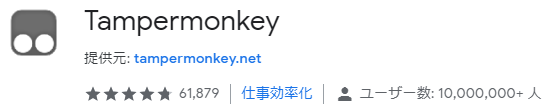
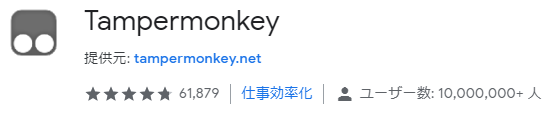
style: レイアウト調整

diff --git a/2019-03-29-browser-extension/slide.html b/2019-03-29-browser-extension/slide.html
@@ -14,6 +14,18 @@
         font-weight: normal;
       }
       .remark-code, .remark-inline-code { font-family: 'Ubuntu Mono'; }
+
+      img {
+        border: 2px solid gray;
+      }
+      .remark-inline-code {
+        background-color: rgb(220, 220, 220);
+        padding: 5px;
+      }
+      .image-2-container img {
+        width: 48%;
+        vertical-align: top;
+      }
     </style>
   </head>
   <body>
@@ -32,6 +44,8 @@ class: center, middle
 # ブラウザ拡張とは
 - ウェブブラウザの機能を拡張する
 - JavaScript, JSON, HTML, CSSなどフロントエンド技術で作成できる
+
+--
 
 ## 詳細
 - 対象ブラウザ
@@ -159,7 +173,7 @@ class: center, middle
 
 ---
 
-# 悪意あるブラウザ拡張への対策
+# 悪意ある<br>ブラウザ拡張への対策
 - 要求権限の少ない拡張を選択
 - ブラウザ側で権限を制限
 - 自作
@@ -192,8 +206,10 @@ class: center, middle
 - 現在表示しているサイトを許可
 - すべてのサイトで許可
 
-![](./uploads/upload_d4c3ee39c2df7621c1f040bd6a1087a4.png)
-![](./uploads/upload_6d7308ea8eaaadcb3260bd7650ac8c3e.png)
+.image-2-container[
+    ![](./uploads/upload_d4c3ee39c2df7621c1f040bd6a1087a4.png)
+    ![](./uploads/upload_6d7308ea8eaaadcb3260bd7650ac8c3e.png)
+]
 
 ---
 
